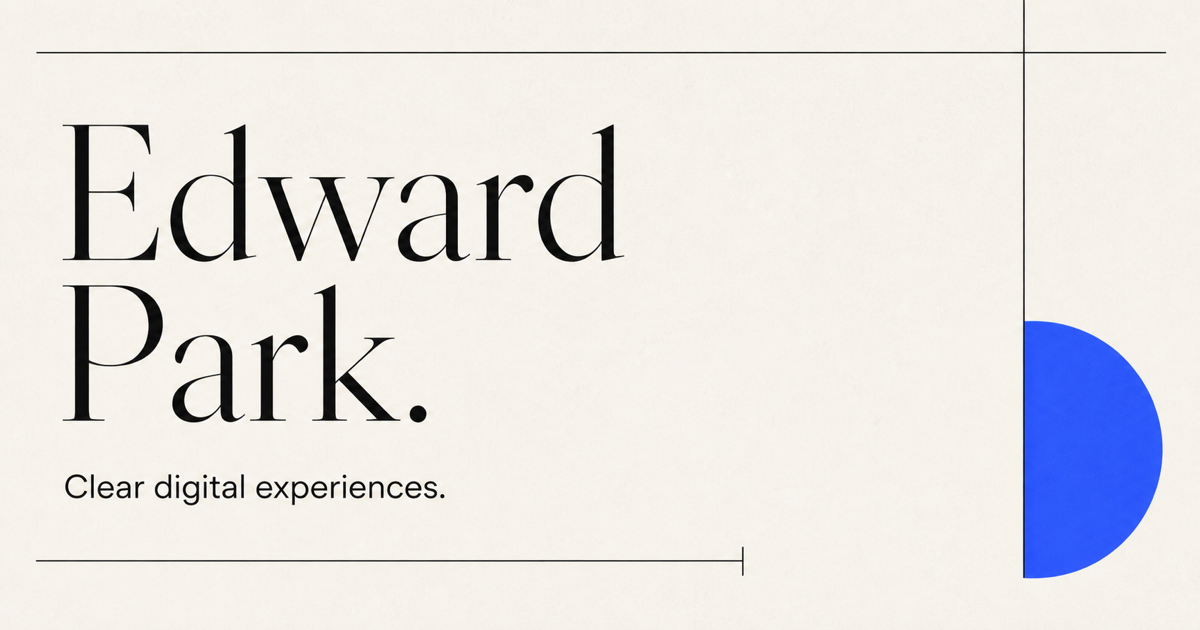
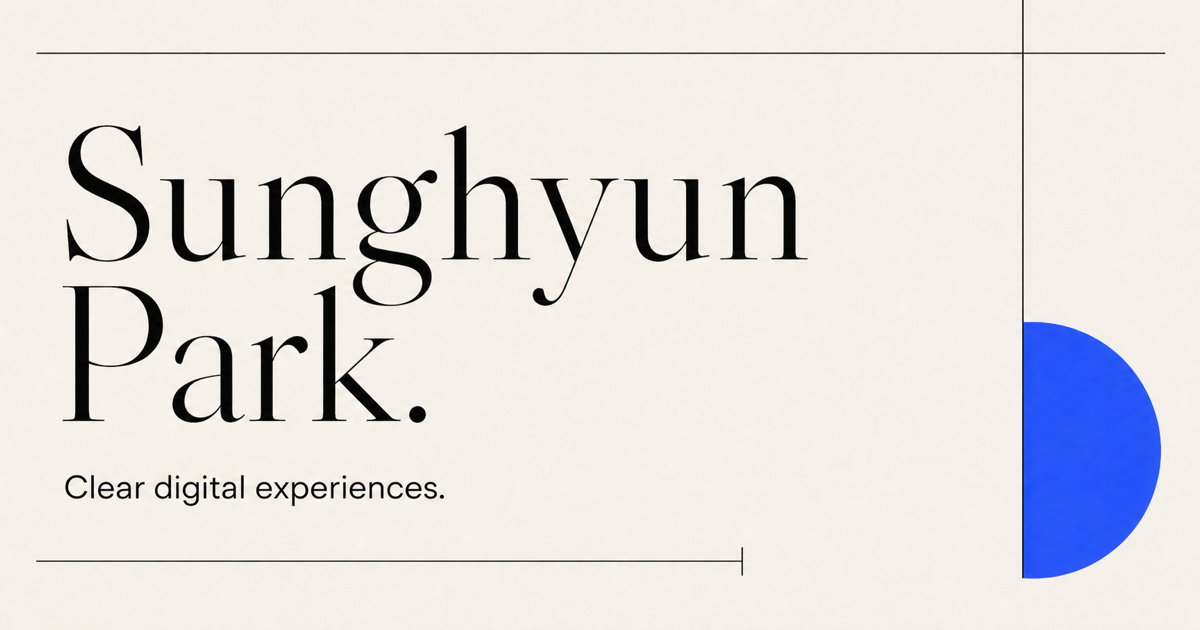
portfolio update

diff --git a/app/page.tsx b/app/page.tsx
@@ -41,8 +41,8 @@ export default function Home() {
   return (
     <main>
       <header className="site-header page-shell">
-        <a className="wordmark" href="#top" aria-label="Edward Park, home">
-          Edward Park<span className="wordmark-dot">.</span>
+        <a className="wordmark" href="#top" aria-label="Sunghyun Park, home">
+          Sunghyun Park<span className="wordmark-dot">.</span>
         </a>
         <nav aria-label="Main navigation">
           <a href="#about">About</a>
@@ -61,7 +61,7 @@ export default function Home() {
         </h1>
         <div className="hero-bottom" id="about">
           <p>
-            I’m Edward, a designer and developer interested in the space between
+            I’m Sunghyun, a designer and developer interested in the space between
             technology, people, and everyday life. I make useful things with care.
           </p>
           <div className="hero-links">
@@ -141,7 +141,7 @@ export default function Home() {
           <a href="mailto:hello@example.com">Let’s talk ↗</a>
         </div>
         <div className="footer-meta">
-          <span>© 2026 Edward Park</span>
+          <span>© 2026 Sunghyun Park</span>
           <a href="#top">Back to top ↑</a>
         </div>
       </footer>

diff --git a/app/layout.tsx b/app/layout.tsx
@@ -3,20 +3,20 @@ import "./globals.css";
 
 export const metadata: Metadata = {
   metadataBase: new URL("https://edipark.github.io"),
-  title: "Edward Park — Designer & Developer",
+  title: "Sunghyun Park — Designer & Developer",
   description:
-    "Edward Park designs and builds clear, thoughtful digital experiences.",
+    "Sunghyun Park designs and builds clear, thoughtful digital experiences.",
   openGraph: {
-    title: "Edward Park — Designer & Developer",
+    title: "Sunghyun Park — Designer & Developer",
     description: "Clear digital experiences, designed and built with care.",
     url: "/",
-    siteName: "Edward Park",
-    images: [{ url: "/og.png", width: 1200, height: 630, alt: "Edward Park — Clear digital experiences." }],
+    siteName: "Sunghyun Park",
+    images: [{ url: "/og.png", width: 1200, height: 630, alt: "Sunghyun Park — Clear digital experiences." }],
     type: "website",
   },
   twitter: {
     card: "summary_large_image",
-    title: "Edward Park — Designer & Developer",
+    title: "Sunghyun Park — Designer & Developer",
     description: "Clear digital experiences, designed and built with care.",
     images: ["/og.png"],
   },
